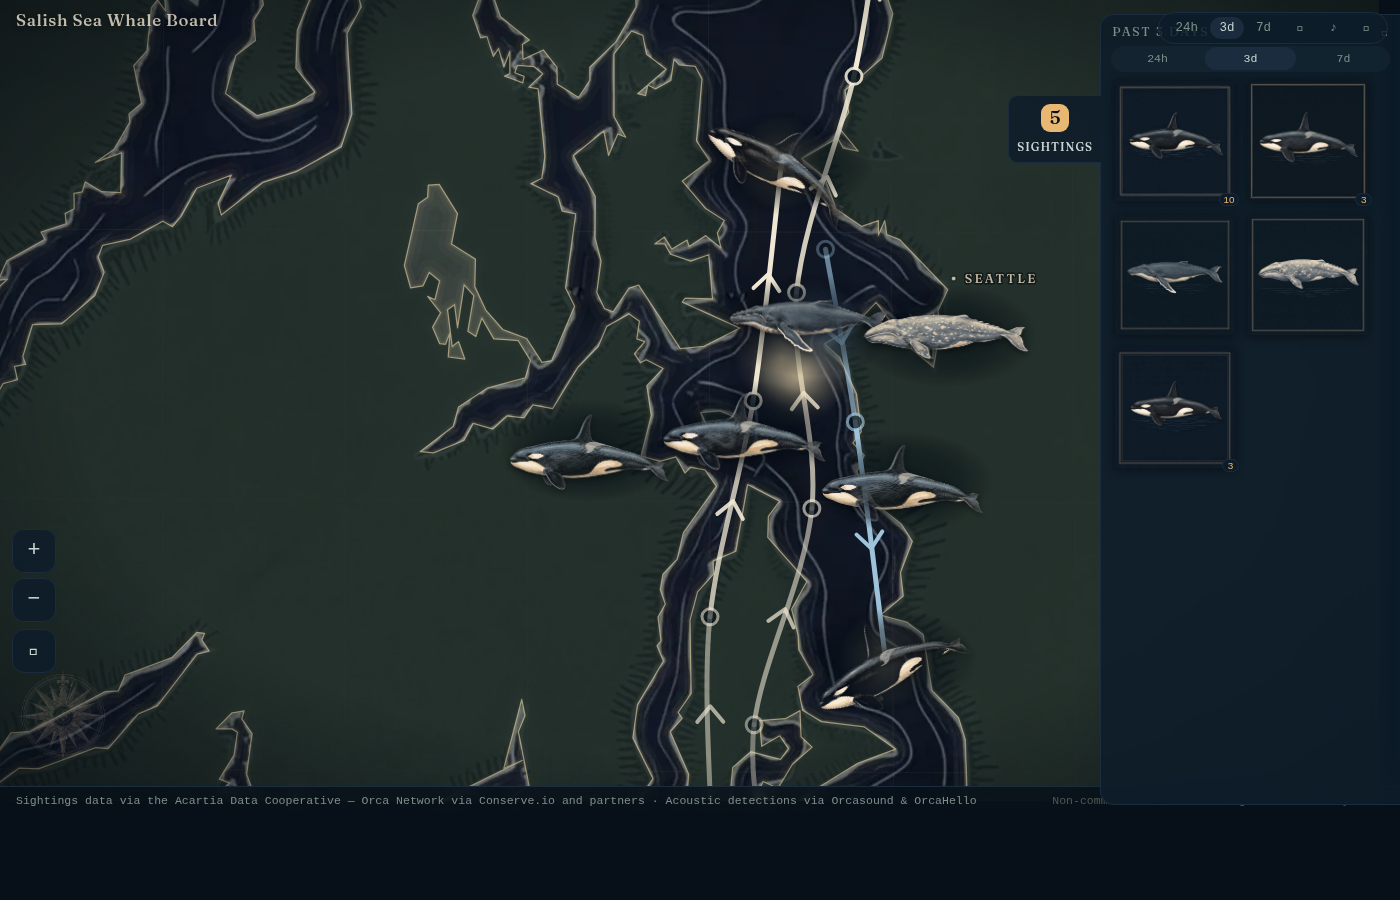
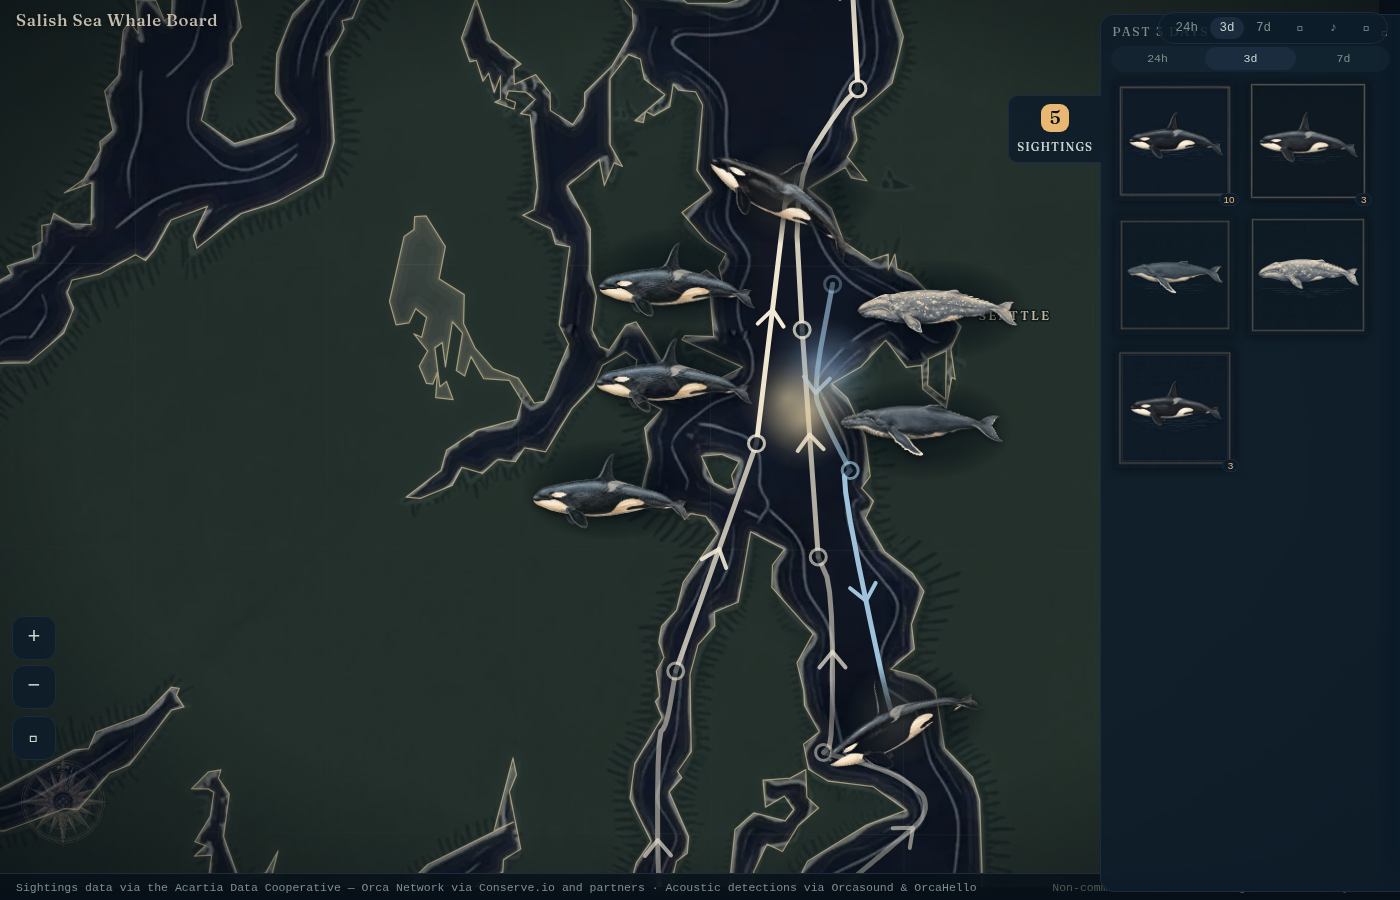
Retake after screenshots (desktop, mobile, popover); flip tall track popovers below earlier

diff --git a/src/map/Popover.tsx b/src/map/Popover.tsx
@@ -27,7 +27,7 @@ export function Popover({ sighting: s, track = null, frame, nowMs }: PopoverProp
   const sx = tx + p[0] * k;
   const sy = ty + p[1] * k;
 
-  const flipY = sy < 190;
+  const flipY = sy < (track ? 330 : 190);
   const x = Math.min(Math.max(sx, 140), frame.width - 140);
 
   const pods = track && track.pods.length ? track.pods.join(' + ') : podLine(s);
